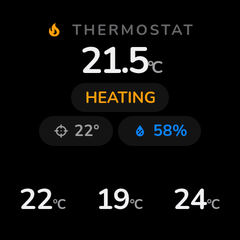
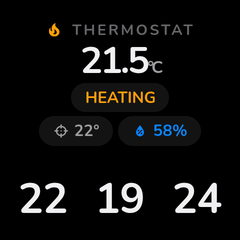
fix: second critique loop — edge shapes and hostile content
Stress matrix over strips (228x74), columns (74x228), sidebar, corner
hero, and hostile states surfaced six fixes:

- Entity: unavailable/unknown states render as a dimmed '--' instead of
  a truncated 'Unavail…' headline; multi-char units drop in narrow
  columns before digits have to shrink or mangle
- Media: paused with a known track keeps the full now-playing layout
  (frozen progress, PAUSED caption, pause glyph on the art overlay)
  instead of a near-empty pause tile
- Clock: 12h strips keep the meridiem when there's horizontal room —
  '07:42' without PM read as morning
- Sparkline: flat series draw a centered line with no area fill (was
  pinned to the bottom edge; the midline fix alone left a half-cell
  gradient slab)
- Captions: stub truncations that destroy the name's identity drop
  entirely (>= 70% of characters or an 8-char prefix must survive) —
  applied in _cardfit and the gauge family alike

Claude-Session: https://claude.ai/code/session_01DGXxUk82jg9um3fEf23Zoi

Changed region(s): [[0.0875, 0.7583, 0.2917, 0.9042], [0.4083, 0.7583, 0.6125, 0.9042], [0.7292, 0.7583, 0.9333, 0.9042]]

diff --git a/custom_components/geekmagic/widgets/media.py b/custom_components/geekmagic/widgets/media.py
@@ -300,7 +300,17 @@ class MediaWidget(Widget):
         """Render the media player widget."""
         entity = state.entity
 
-        if entity is None or entity.state in ("off", "unavailable", "unknown", "idle", "paused"):
+        # Paused WITH a track keeps the full now-playing layout (frozen
+        # progress, PAUSED caption) — a near-empty pause tile wastes the
+        # cell when we know exactly what's on. Paused without a track,
+        # and every off/idle state, get the quiet placeholder.
+        paused = entity is not None and entity.state == "paused"
+        has_track = entity is not None and bool(entity.get("media_title"))
+        if (
+            entity is None
+            or entity.state in ("off", "unavailable", "unknown", "idle")
+            or (paused and not has_track)
+        ):
             return self._render_idle(entity)
 
         # Calculate current position (accounts for elapsed playback time)
@@ -372,19 +382,29 @@ class MediaWidget(Widget):
         lines: list[str] = []
         raw_title = entity.get("media_title", "")
         title_lines = 0
+        paused = entity.state == "paused"
         if raw_title:
+            pause_reserve = 1.4 if paused else 0.0
             title, title_px, title_lines = _fit_title(
                 raw_title,
                 metrics,
-                text_width,
+                text_width - pause_reserve * _clamp_px(11.0, 0.105, 24.0, vmin),
                 max_px=_clamp_px(11.0, 0.105, 24.0, vmin),
                 max_lines=2 if ctx.height >= 170 else 1,
             )
             block_px += title_lines * title_px * 1.16
+            # A small pause glyph rides the title line when frozen — the
+            # only visible difference from playing besides the still bar.
+            pause_glyph = (
+                f'<span class="icon" style="font-size: {title_px * 0.9:.0f}px; '
+                'color: rgba(255,255,255,0.75); margin-right: 0.3em">&#xF03E4;</span>'
+                if paused
+                else ""
+            )
             lines.append(
                 f'<div style="font-size: {title_px:.1f}px; font-weight: 700; '
                 'line-height: 1.16; letter-spacing: -0.01em; color: rgba(255,255,255,0.98)">'
-                f"{escape(title)}</div>"
+                f"{pause_glyph}{escape(title)}</div>"
             )
         artist = entity.get("media_artist", "")
         if artist and self.show_artist and ctx.height >= 120:
@@ -498,7 +518,8 @@ class MediaWidget(Widget):
         metrics = _title_metrics(ctx)
         text_width = ctx.width * 0.88 - _CHROME_PX  # 6% padding each side
 
-        bands: list[str] = ['<div class="t-label hide-short">NOW PLAYING</div>']
+        caption = "PAUSED" if entity.state == "paused" else "NOW PLAYING"
+        bands: list[str] = [f'<div class="t-label hide-short">{caption}</div>']
 
         # Title / artist / album are one unit: they read as a single
         # block of "what is playing", so they get a tight internal gap and

diff --git a/custom_components/geekmagic/htmldoc.py b/custom_components/geekmagic/htmldoc.py
@@ -307,20 +307,29 @@ def svg_sparkline(
         return ""
     vb_w = 100.0 * max(0.4, aspect)
     vmin, vmax = min(values), max(values)
-    spread = (vmax - vmin) or 1.0
+    spread = vmax - vmin
     n = len(values) - 1
     inset = 7.0  # headroom so the dot/halo and stroke stay inside
-    pts = [
-        (
-            inset + i / n * (vb_w - 2 * inset),
-            (100 - inset) - (v - vmin) / spread * (100 - 2 * inset),
-        )
-        for i, v in enumerate(values)
-    ]
+    if spread == 0:
+        # Flat series: draw the line mid-height instead of pinned to the
+        # bottom edge (y would otherwise collapse to vmin's baseline).
+        pts = [(inset + i / n * (vb_w - 2 * inset), 50.0) for i in range(len(values))]
+    else:
+        pts = [
+            (
+                inset + i / n * (vb_w - 2 * inset),
+                (100 - inset) - (v - vmin) / spread * (100 - 2 * inset),
+            )
+            for i, v in enumerate(values)
+        ]
     line = _smooth_path(pts) if smooth else "M " + " L ".join(f"{x:.1f} {y:.1f}" for x, y in pts)
     # The area fill extends to the viewBox edges (x=0 / x=vb_w) so the
     # gradient has no hard vertical seam at the line insets; the stroked
-    # line itself keeps its inset for dot/stroke headroom.
+    # line itself keeps its inset for dot/stroke headroom. A flat series
+    # fills nothing — half a cell of gradient under an unchanging value
+    # reads as data that isn't there.
+    if spread == 0:
+        fill_opacity = 0.0
     area = (
         f"M 0 {pts[0][1]:.1f} {line.replace('M', 'L', 1)} "
         f"L {vb_w:.0f} {pts[-1][1]:.1f} L {vb_w:.0f} 100 L 0 100 Z"

diff --git a/custom_components/geekmagic/widgets/entity.py b/custom_components/geekmagic/widgets/entity.py
@@ -115,7 +115,11 @@ class EntityWidget(Widget):
                 value = str(raw_value) if raw_value is not None else PLACEHOLDER_VALUE
             else:
                 value = entity.state
-                if entity.entity_id.startswith("binary_sensor."):
+                if value in ("unavailable", "unknown", "none", ""):
+                    # Absence reads as absence — a quiet dimmed marker,
+                    # not a truncated "Unavail…" headline.
+                    value = PLACEHOLDER_VALUE
+                elif entity.entity_id.startswith("binary_sensor."):
                     value = translate_binary_state(value, entity.device_class)
                 elif isinstance(value, str) and value.isalpha() and len(value) <= 16:
                     # Title-case short alpha flag states ('on'→'On', 'home'→'Home')
@@ -130,6 +134,12 @@ class EntityWidget(Widget):
                     pass  # Keep original value if not numeric
             unit = entity.unit if self.show_unit else ""
             name = self.label_for(entity)
+
+        # Narrow columns: multi-char units cost the digits their size —
+        # drop them before the value has to shrink or mangle. Single-char
+        # suffixes (°, %) are cheap and keep their meaning.
+        if unit and len(unit) > 1 and ctx.width < 100:
+            unit = ""
 
         # Determine icon to use
         icon = self.icon

diff --git a/custom_components/geekmagic/widgets/_cardfit.py b/custom_components/geekmagic/widgets/_cardfit.py
@@ -113,10 +113,17 @@ def fit_caption(text: str, ctx: CellContext, avail_w: float) -> str:
     ``card_html`` also truncates when given ``ctx``, but from an average
     glyph width; measuring the real caps string is what keeps long entity
     names from bleeding off the panel.
+
+    A stub is worse than nothing: when truncation destroys the name's
+    identity ("GARAG…" for "GARAGE WORKSHOP TEMPERATURE"), the caption
+    drops entirely and the cell spends the room on the value. A caption
+    survives if at least 70% of its characters — or an 8-character
+    prefix — make it through.
     """
     metrics = metrics_for(ctx.theme)
-    return metrics.truncate(
-        text.upper(),
+    upper = text.upper()
+    fitted = metrics.truncate(
+        upper,
         label_px(ctx),
         avail_w,
         "bold",
@@ -124,6 +131,11 @@ def fit_caption(text: str, ctx: CellContext, avail_w: float) -> str:
         style="end",
         min_chars=3,
     )
+    if fitted != upper:
+        kept = len(fitted.rstrip("…"))
+        if kept < 8 and kept < 0.7 * len(upper):
+            return ""
+    return fitted
 
 
 def _balance(text: str, count: int = 2) -> list[str]:

diff --git a/tests/widgets/test_widgets.py b/tests/widgets/test_widgets.py
@@ -1746,13 +1746,20 @@ class TestMediaWidget:
         fragment = widget.render_html(ctx, make_state(self._player("idle")))
         assert "NO MEDIA" in fragment
 
-    def test_render_paused(self, ctx):
-        """Paused shows the pause placeholder, not the now-playing card."""
+    def test_render_paused_with_track_keeps_now_playing(self, ctx):
+        """Paused with a known track keeps the full card, marked PAUSED."""
         widget = self._widget()
         entity = self._player("paused", media_title="Test Song", media_artist="Test Artist")
         fragment = widget.render_html(ctx, make_state(entity))
         assert "PAUSED" in fragment
-        assert "Test Song" not in fragment
+        assert "Test Song" in fragment
+
+    def test_render_paused_without_track_is_placeholder(self, ctx):
+        """Paused with no track information gets the quiet placeholder."""
+        widget = self._widget()
+        entity = self._player("paused")
+        fragment = widget.render_html(ctx, make_state(entity))
+        assert "PAUSED" in fragment
 
     def test_render_playing_now_playing_card(self, ctx):
         widget = self._widget()

diff --git a/custom_components/geekmagic/widgets/_gauge.py b/custom_components/geekmagic/widgets/_gauge.py
@@ -87,7 +87,15 @@ def fit_caption(
     px = font_px if font_px is not None else label_px(ctx)
     per_char = px * char_em(ctx, caps=True)
     usable = (width_px if width_px is not None else ctx.width * 0.90) - reserve_em * px
-    return truncate_text(text, max(3, int(usable / per_char)))
+    fitted = truncate_text(text, max(3, int(usable / per_char)))
+    # A stub is worse than nothing: when truncation destroys the name's
+    # identity ("BATTE…"), drop the caption and let the gauge own the
+    # cell. Same rule as _cardfit.fit_caption.
+    if fitted != text:
+        kept = len(fitted.rstrip("…"))
+        if kept < 8 and kept < 0.7 * len(text):
+            return ""
+    return fitted
 
 
 def track_css(

diff --git a/custom_components/geekmagic/widgets/clock.py b/custom_components/geekmagic/widgets/clock.py
@@ -92,7 +92,11 @@ class ClockWidget(Widget):
         seconds = self.show_seconds and not ctx.is_compact
         if self.time_format == "12h":
             fmt = "%I:%M:%S" if seconds else "%I:%M"
-            meridiem = "" if ctx.is_compact else now.strftime("%p")
+            # Compact 3x3 tiles drop the meridiem; wide strips keep it —
+            # "07:42" without PM reads as morning on a 228x74 slot with
+            # plenty of horizontal room.
+            drop_meridiem = ctx.is_compact and ctx.width < 170
+            meridiem = "" if drop_meridiem else now.strftime("%p")
         else:
             fmt = "%H:%M:%S" if seconds else "%H:%M"
             meridiem = ""
